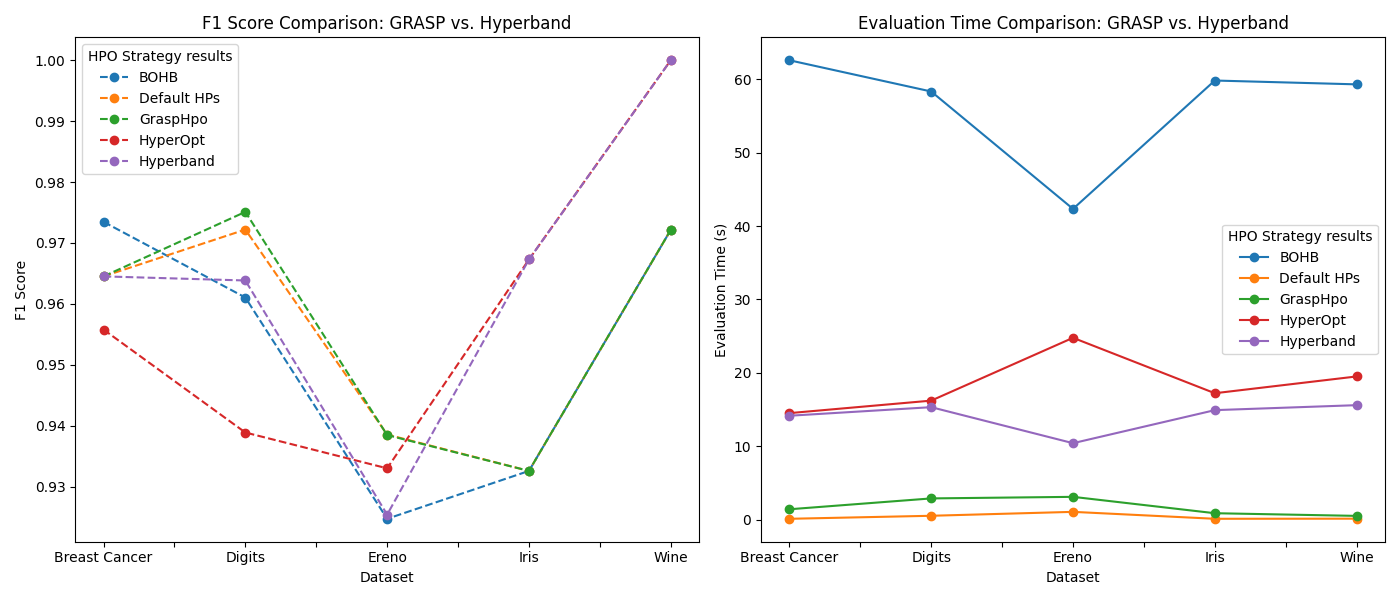
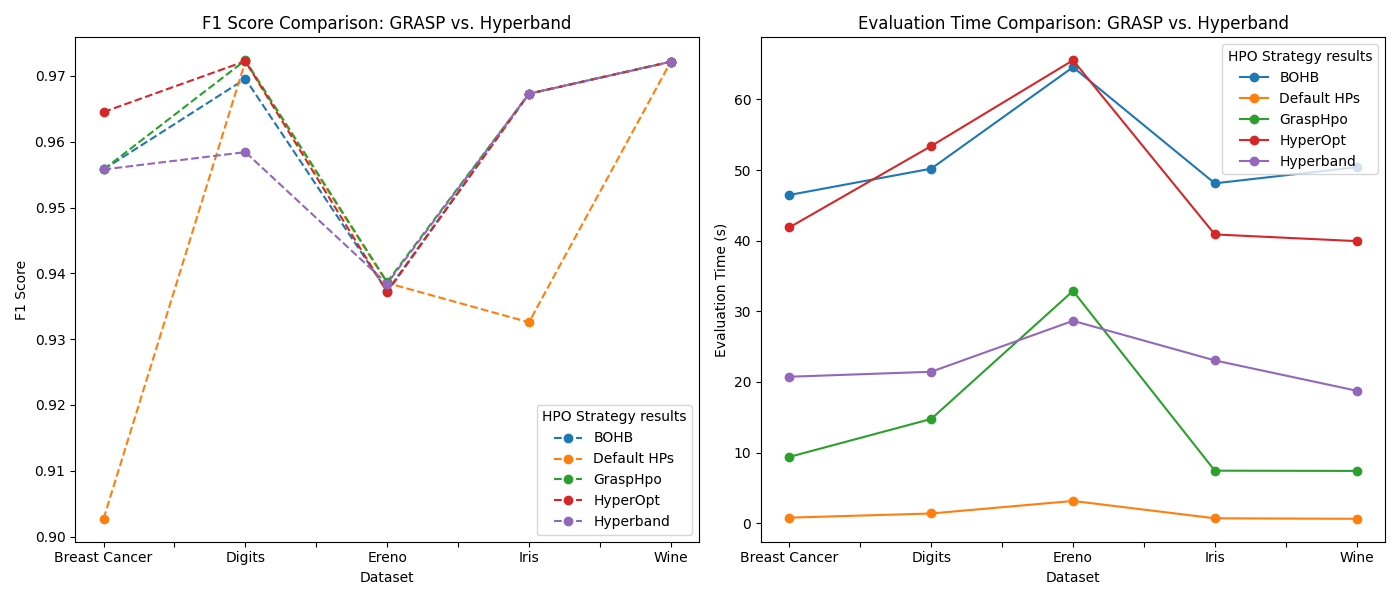
Default and GRASP using XGBoost lib without scikit learn api

diff --git a/src/hpo/benchmark/default.py b/src/hpo/benchmark/default.py
@@ -1,6 +1,6 @@
 from sklearn.metrics import f1_score
 import numpy as np
-from xgboost import XGBClassifier
+import xgboost
 
 from src.hpo.hpo_strategy import HPOStrategy
 import time
@@ -8,15 +8,40 @@ import time
 
 class Default(HPOStrategy):
     def hyperparameter_optimization(self,  x_train, x_test, y_train, y_test, search_space):
+        def evaluate_f1_score(predt: np.ndarray, dtrain: xgboost.DMatrix) -> tuple[str, float]:
+            """Compute the f1 score"""
+            y = dtrain.get_label()
+            if len(np.unique(y)) == 2:
+                threshold = 0.5
+                binary_preds = [1 if p > threshold else 0 for p in predt]
+                f1 = f1_score(y, binary_preds, average="weighted")
+            else:
+                f1 = f1_score(y, np.argmax(predt, axis=1), average="weighted") if predt.ndim > 1 else f1_score(y, predt,
+                                                                                                               average="weighted")
+            return "f1_score", f1
+
         start_time = time.time()
         params = {}
         class_quantity = len(np.unique(y_train))
         if class_quantity > 2:
             params["objective"] = "multi:softmax"
-            params["num_class"] = str(class_quantity)
+            params["num_class"] = class_quantity
 
-        xgboost_classifier = XGBClassifier(**params)
-        xgboost_classifier.fit(x_train, y_train)
-        y_pred = xgboost_classifier.predict(x_test)
-        score = f1_score(y_test, y_pred, average='weighted')
-        return params, f1_score(y_test, y_pred, average='weighted'), ([score], [time.time() - start_time])
+        train_set = xgboost.DMatrix(data=x_train, label=y_train)
+        test_set = xgboost.DMatrix(data=x_test, label=y_test)
+
+        evals_result = {}
+        xgboost.train(
+            params,
+            train_set,
+            evals=[(test_set, "eval")],
+            verbose_eval=False,
+            custom_metric=evaluate_f1_score,
+            num_boost_round=100,
+            evals_result=evals_result
+        )
+
+        score = evals_result['eval']['f1_score'][-1]
+
+        elapsed_time = time.time() - start_time
+        return params, score, ([score], [elapsed_time])

diff --git a/src/hpo/grasp/grasp_hpo.py b/src/hpo/grasp/grasp_hpo.py
@@ -1,16 +1,16 @@
 import time
+import xgboost
 import numpy as np
-from xgboost import XGBClassifier
-from sklearn.metrics import f1_score
 
+from sklearn.metrics import f1_score
 from src.hpo.hpo_strategy import HPOStrategy
 from src.hpo.grasp.phase1grasp import Construction
 from src.hpo.grasp.phase2grasp import LocalSearch
 
 
-LOCAL_SEARCH_ITERATIONS = 1
-LOCAL_SEARCH_TIMELIMIT = 1
-BUILDING_PHASE_ITERATIONS = 1
+LOCAL_SEARCH_ITERATIONS = 2
+LOCAL_SEARCH_TIMELIMIT = 20
+BUILDING_PHASE_ITERATIONS = 2
 BUILDING_PHASE_TIMELIMIT = 20
 INTERMEDIATE_RESULTS_SIZE = 5
 
@@ -33,12 +33,34 @@ class GraspHpo(HPOStrategy):
 
     @staticmethod
     def evaluate_solution(params, x_train, x_test, y_train, y_test):
+        def evaluate_f1_score(predt: np.ndarray, dtrain: xgboost.DMatrix) -> tuple[str, float]:
+            """Compute the f1 score"""
+            y = dtrain.get_label()
+            if len(np.unique(y)) == 2:
+                threshold = 0.5
+                binary_preds = [1 if p > threshold else 0 for p in predt]
+                f1 = f1_score(y, binary_preds, average="weighted")
+            else:
+                f1 = f1_score(y, np.argmax(predt, axis=1), average="weighted") if predt.ndim > 1 else f1_score(y, predt, average="weighted")
+            return "f1_score", f1
+
         class_quantity = len(np.unique(y_train))
         if class_quantity > 2:
             params["objective"] = "multi:softmax"
-            params["num_class"] = str(class_quantity)
+            params["num_class"] = class_quantity
 
-        xgboost_classifier = XGBClassifier(**params)
-        xgboost_classifier.fit(x_train, y_train)
-        y_pred = xgboost_classifier.predict(x_test)
-        return f1_score(y_test, y_pred, average='weighted')
+        train_set = xgboost.DMatrix(data=x_train, label=y_train)
+        test_set = xgboost.DMatrix(data=x_test, label=y_test)
+
+        evals_result = {}
+        xgboost.train(
+            params,
+            train_set,
+            evals=[(test_set, "eval")],
+            verbose_eval=False,
+            custom_metric=evaluate_f1_score,
+            num_boost_round=100,
+            evals_result=evals_result
+        )
+
+        return evals_result['eval']['f1_score'][-1]

diff --git a/src/hpo/grasp/phase1grasp.py b/src/hpo/grasp/phase1grasp.py
@@ -39,8 +39,8 @@ class Construction:
 
         f1_score = self.evaluate(DEFAULT_HYPERPARAMETERS, x_train, x_test, y_train, y_test)
         best_intermediate_combinations.put((f1_score, uuid.uuid4(), DEFAULT_HYPERPARAMETERS))
-        f1_scores_evolution = [0]
-        time_evolution = [0]
+        f1_scores_evolution = []
+        time_evolution = []
         for i in range(self.max_iter):
             if time.time() - start_time > self.timelimit:
                 break
@@ -61,7 +61,7 @@ class Construction:
 
             f1_score = self.evaluate(selected_hyperparameters, x_train, x_test, y_train, y_test)
 
-            if f1_score > f1_scores_evolution[-1]:
+            if f1_scores_evolution.__len__() == 0 or f1_score > f1_scores_evolution[-1]:
                 f1_scores_evolution.append(f1_score)
                 time_evolution.append(time.time() - start_time)
 

diff --git a/src/main.py b/src/main.py
@@ -37,11 +37,13 @@ class Main:
 
     @staticmethod
     def main():
-        dataset_names = ['Ereno', 'Breast Cancer', 'Digits', 'Iris', 'Wine']
+        dataset_names = ['Breast Cancer', 'Digits', 'Iris', 'Wine', 'Ereno']
         # dataset_names = ['Breast Cancer', 'Digits', 'Iris', 'Wine']
-        # dataset_names = ['Ereno']
+        # dataset_names = ['Wine']
         strategies = ['HyperOpt', 'Hyperband', 'GraspHpo', 'BOHB', 'Default HPs']
         # strategies = ['GraspHpo']
+        # strategies = ['BOHB']
+        # strategies = ['Default HPs']
 
         data_final_metrics = []
         data_evolution = []

diff --git a/src/hpo/grasp/phase2grasp.py b/src/hpo/grasp/phase2grasp.py
@@ -88,7 +88,7 @@ class LocalSearch:
 
         neighbor = cur_solution.copy()
         for hp in neighbor.keys():
-            if hp in ['objective', 'num_class']:
+            if hp in ['objective', 'num_class', 'n_estimators']:
                 continue
 
             plus_minus = (self.hp_ranges[hp][1] - self.hp_ranges[hp][0]) * (self.margin / 2.0)
